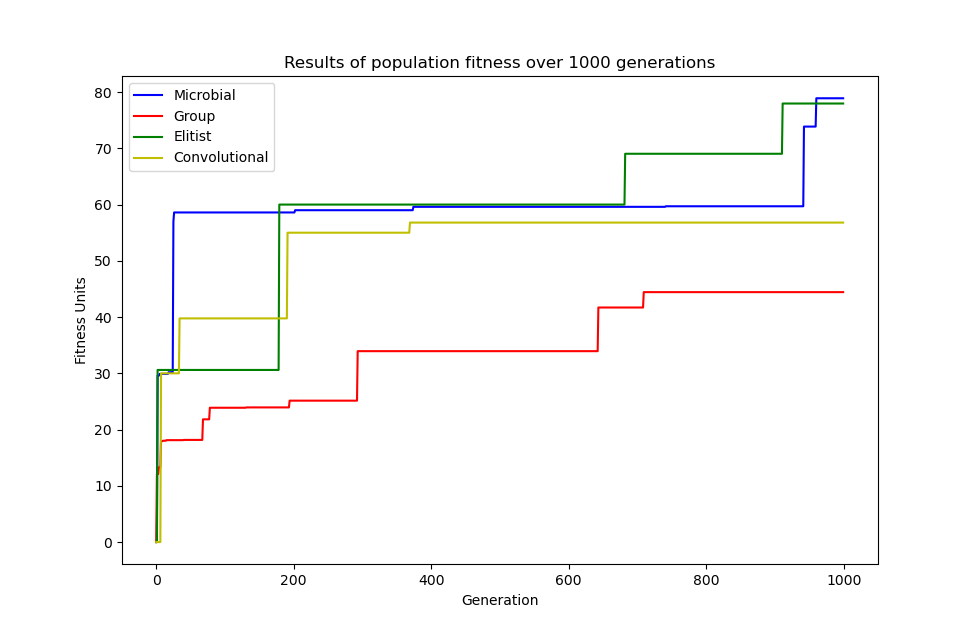
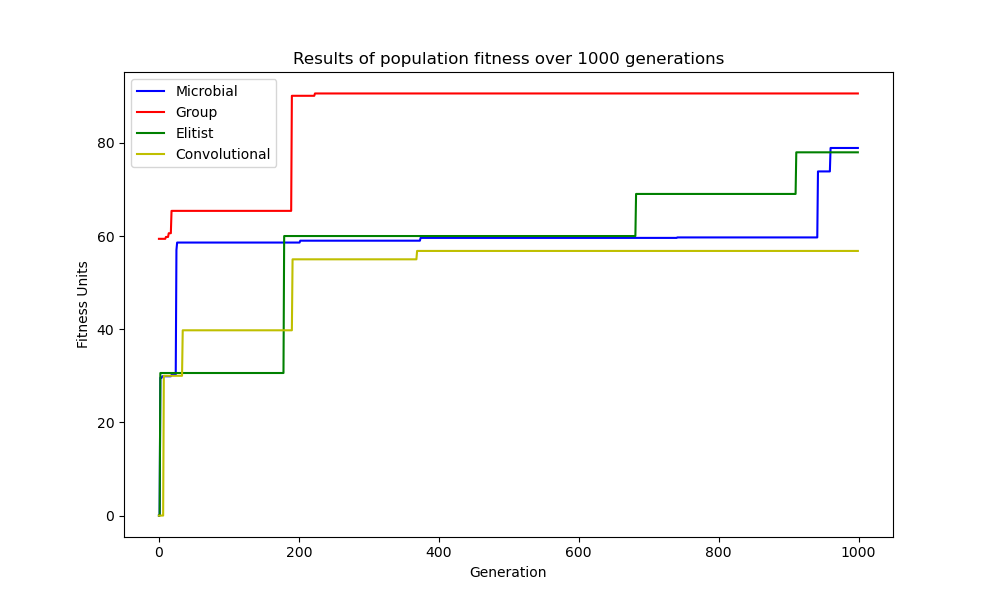
New mutation method

diff --git a/Simulation/Group.py b/Simulation/Group.py
@@ -32,6 +32,16 @@ def generateWorld():
     #print("Octaves:",octaves)
     return world,shape
 
+def mutationNew(gene, mean=0, std=0.5,size=100):
+    assert size<len(gene)
+    n=random.randint(0,len(gene)-size-1)
+    array=np.random.normal(mean,std,size=size)
+    gene = gene[n:n+size] + array #mutate the gene via normal 
+    # constraint
+    gene[gene >4] = 4
+    gene[gene < -4] = -4
+    return gene
+
 def mutation(gene, mean=0, std=0.5):
     gene = gene + np.random.normal(mean, std, size=gene.shape) #mutate the gene via normal 
     # constraint
@@ -222,6 +232,7 @@ def group(genes,world,position):
     fitness2=0
     genes1=[]
     genes2=[]
+    maxFitness=0
     for i in range(len(genes[ind_1])):
         gene1=(genes[ind_1][i])
         gene2=(genes[ind_2][i])
@@ -236,14 +247,17 @@ def group(genes,world,position):
         a,b,fitnessa2,c=run_trial(gene2)
         a,b,fitnessb1,c=run_trial(gene1)
         a,b,fitnessb2,c=run_trial(gene2)
+        
         #generate average fitness
         fitness1+=(fitnessa+fitnessa1+fitnessb1)/3
         fitness2+=(fitnessb+fitnessa2+fitnessb2)/3
+        temp=max([(fitnessa+fitnessa1+fitnessb1)/3,(fitnessb+fitnessa2+fitnessb2)/3])
+        if temp>maxFitness:maxFitness=temp
     #get group fitness
     fitness1=fitness1/len(genes[ind_1])
     fitness2=fitness2/len(genes[ind_1])
 
-    print(max(fitness1,fitness2),"% over 3 trials")
+    #print(max(fitness1,fitness2),"% over 3 trials")
     #show results
      
     #microbial selection
@@ -260,7 +274,7 @@ def group(genes,world,position):
     if BESTFIT==0: BEST=[copy.deepcopy(p2x),copy.deepcopy(p2y),copy.deepcopy(world),endCord2,ind_2] #default
     genes[ind_1]=copy.deepcopy(genes1)
     genes[ind_2]=copy.deepcopy(genes2)
-    return genes,max(fitness1,fitness2)
+    return genes,max(fitness1,fitness2),maxFitness
 BEST=[]
 BESTFIT=0
 world,shape=generateWorld()
@@ -301,11 +315,11 @@ for gen in range(Generations):
     #randomly pick a start position
     startPos=pickPosition(world,4,LBounds=6)
     #genes have been selected
-    gene_pop,fit=group(gene_pop,world,startPos)
-    fitnesses.append(max([fit]+fitnesses))
-
+    gene_pop,fit,Max=group(gene_pop,world,startPos)
+    fitnesses.append(max([Max]+fitnesses)) #max([fit]+fitnesses)
+    print(max(fitnesses))
 genes=gene_pop[BEST[4]]
-
+"""
 for gene in genes:
     p1x,p1y,fit,endCord1=run_trial(gene)
     plt.plot(p1x,p1y) #show best path
@@ -314,7 +328,7 @@ for gene in genes:
     #print(canReach(Rmap,startPos,endPos))
     plt.imshow(BEST[2],cmap='terrain') #show best show
     plt.show()
-
+"""
 np.save("group.npy", fitnesses)
 
 plt.cla()

diff --git a/Simulation/Microbial.py b/Simulation/Microbial.py
@@ -32,8 +32,11 @@ def generateWorld():
     #print("Octaves:",octaves)
     return world,shape
 
-def mutation(gene, mean=0, std=0.5):
-    gene = gene + np.random.normal(mean, std, size=gene.shape) #mutate the gene via normal 
+def mutation(gene, mean=0, std=0.5,size=100):
+    assert size<len(gene)
+    n=random.randint(0,len(gene)-size-1)
+    array=np.random.normal(mean,std,size=size)
+    gene = gene[n:n+size] + array #mutate the gene via normal 
     # constraint
     gene[gene >4] = 4
     gene[gene < -4] = -4
@@ -179,7 +182,7 @@ def run_trial(gene,runs=30):
                 energy+=1+climb
         i+=1
     endDist=getDist(current,cords)
-    print("total energy consumed",energy,"fitness",fitness(broke,energy,endDist),"endDist:",endDist)
+    #print("total energy consumed",energy,"fitness",fitness(broke,energy,endDist),"endDist:",endDist)
     
     return pathx,pathy,fitness(broke,energy,endDist),cords
 
@@ -209,7 +212,7 @@ def microbial(genes,world,position):
     #generate average fitness
     fitness1=(fitness1+fitnessa1+fitnessb1)/3
     fitness2=(fitness2+fitnessa2+fitnessb2)/3
-    print(max(fitness1,fitness2),"% over 3 trials")
+    #print(max(fitness1,fitness2),"% over 3 trials")
     #show results
      
     #microbial selection
@@ -263,6 +266,7 @@ for gen in range(Generations):
     #genes have been selected
     gene_pop,fit=microbial(gene_pop,world,startPos)
     fitnesses.append(max([fit]+fitnesses))
+    print(max(fitnesses))
 bestGene=[]
 bestFit=0
 for gene in gene_pop:
@@ -292,7 +296,7 @@ if bestGene!=[]:
         plt.imshow(BEST[2],cmap='terrain') #show best show
         plt.show()
 
-np.save("microbial.npy", fitnesses)
+np.save("microbialPart.npy", fitnesses)
 """
 plt.plot(BEST[0],BEST[1]) #show best path
 plt.title("Results of best fitness at "+str(BESTFIT)+"% after generations")

diff --git a/Simulation/ResultsFile.py b/Simulation/ResultsFile.py
@@ -27,3 +27,24 @@ plt.ylabel("Fitness Units")
 plt.xlabel("Generation")
 plt.legend(loc="upper left")
 plt.show()
+
+"""
+Show results of alternative mutation function
+
+"""
+
+with open(path+'microbialPart.npy', 'rb') as f:
+    aa = np.load(f)
+with open(path+'groupPart.npy', 'rb') as f:
+    bb = np.load(f)
+
+plt.plot([i for i in range(len(aa))],aa,c="b",label="Microbial") #show fintesses over generations
+plt.plot([i for i in range(len(bb))],bb,c="r",label="Group") #show fintesses over generations
+plt.plot([i for i in range(len(a))],a,c="g",label="Microbial old") #show fintesses over generations
+plt.plot([i for i in range(len(b))],b,c="y",label="Group old") #show fintesses over generations
+
+plt.title("Results of population fitness over "+str(len(a))+" generations with alternative mutation")
+plt.ylabel("Fitness Units")
+plt.xlabel("Generation")
+plt.legend(loc="upper left")
+plt.show()
